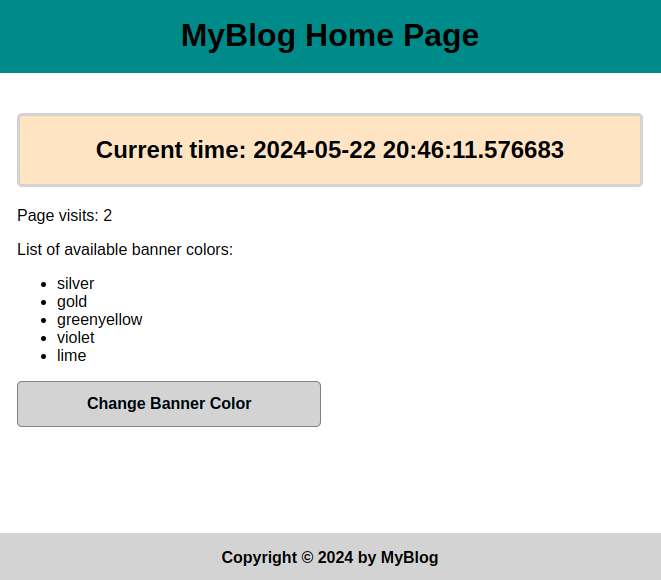
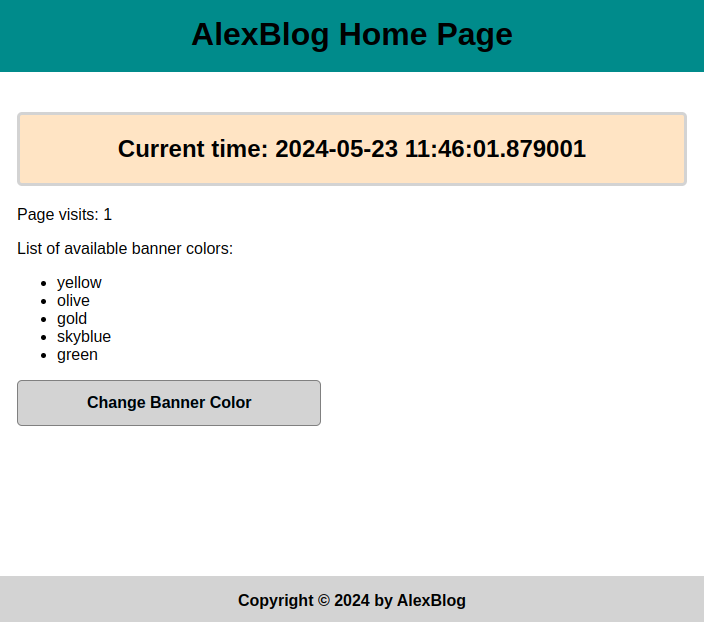
update

Changed region(s): [[0.0, 0.1552, 0.9985, 0.7448], [0.0, 0.031, 1.0, 0.1241], [0.0, 0.9, 1.0, 0.9931]]

diff --git a/sandbox/flask_examples/example-3--jinja2-features/templates/base.html b/sandbox/flask_examples/example-3--jinja2-features/templates/base.html
@@ -17,14 +17,14 @@
 
 <body>
     <div id="header">
-        <h1>MyBlog Home Page</h1>
+        <h1>AlexBlog Home Page</h1>
     </div>
     <div id="content">
         {% block content %}{% endblock %} <!-- Template section "content" -->
     </div>
     <div id="footer">
         {% block footer %} <!-- Template section "footer" -->
-        <h4>Copyright &copy; 2024 by MyBlog</h4>
+        <h4>Copyright &copy; 2024 by AlexBlog</h4>
         {% endblock %} <!-- Template section "footer" -->
     </div>
 </body>

diff --git a/sandbox/flask_examples/example-1--hello-world/app.py b/sandbox/flask_examples/example-1--hello-world/app.py
@@ -22,7 +22,7 @@ $ export FLASK_APP=app.py
 > set FLASK_APP=app.py
 """
 
-# Then
+# Then, run the Flask built-in web server
 """
 $ flask run
  * Serving Flask app 'app.py'

diff --git a/sandbox/flask_examples/example-2--passing-dynamical-data-with-template/app.py b/sandbox/flask_examples/example-2--passing-dynamical-data-with-template/app.py
@@ -30,7 +30,7 @@ $ export FLASK_APP=app.py
 > set FLASK_APP=app.py
 """
 
-# Then
+# Then, run the Flask built-in web server
 """
 $ flask run
  * Serving Flask app 'app.py'

diff --git a/sandbox/flask_examples/example-3--jinja2-features/app.py b/sandbox/flask_examples/example-3--jinja2-features/app.py
@@ -78,7 +78,7 @@ $ export FLASK_APP=app.py
 > set FLASK_APP=app.py
 """
 
-# Then
+# Then, run the Flask built-in web server
 """
 $ flask run
  * Serving Flask app 'app.py'

diff --git a/README.md b/README.md
@@ -1,1 +1,12 @@
 # Python-Web-Application-Farrell-2023
+
+Two of the most common production-ready high-performance WSGI servers are uWSGI and Gunicorn (short for Green Unicorn).
+
+To run a Flask application using Gunicorn, you need to install it from the Python virtual environment with Flask:
+``` commandline
+(venv) ... $ pip install gunicorn
+```
+
+``` commandline
+$ gunicorn -w 4 app:app
+```

diff --git a/terms.md b/terms.md
@@ -1,1 +1,5 @@
 DRY = Don't repeat yourself
+
+WSGI = Web Server Gateway Interface: a WSGI standard for a server that provides a simple calling convention to forward requests from a web server to a Python web application.
+
+Two of the most common production-ready high-performance WSGI servers are uWSGI and Gunicorn (short for Green Unicorn).
